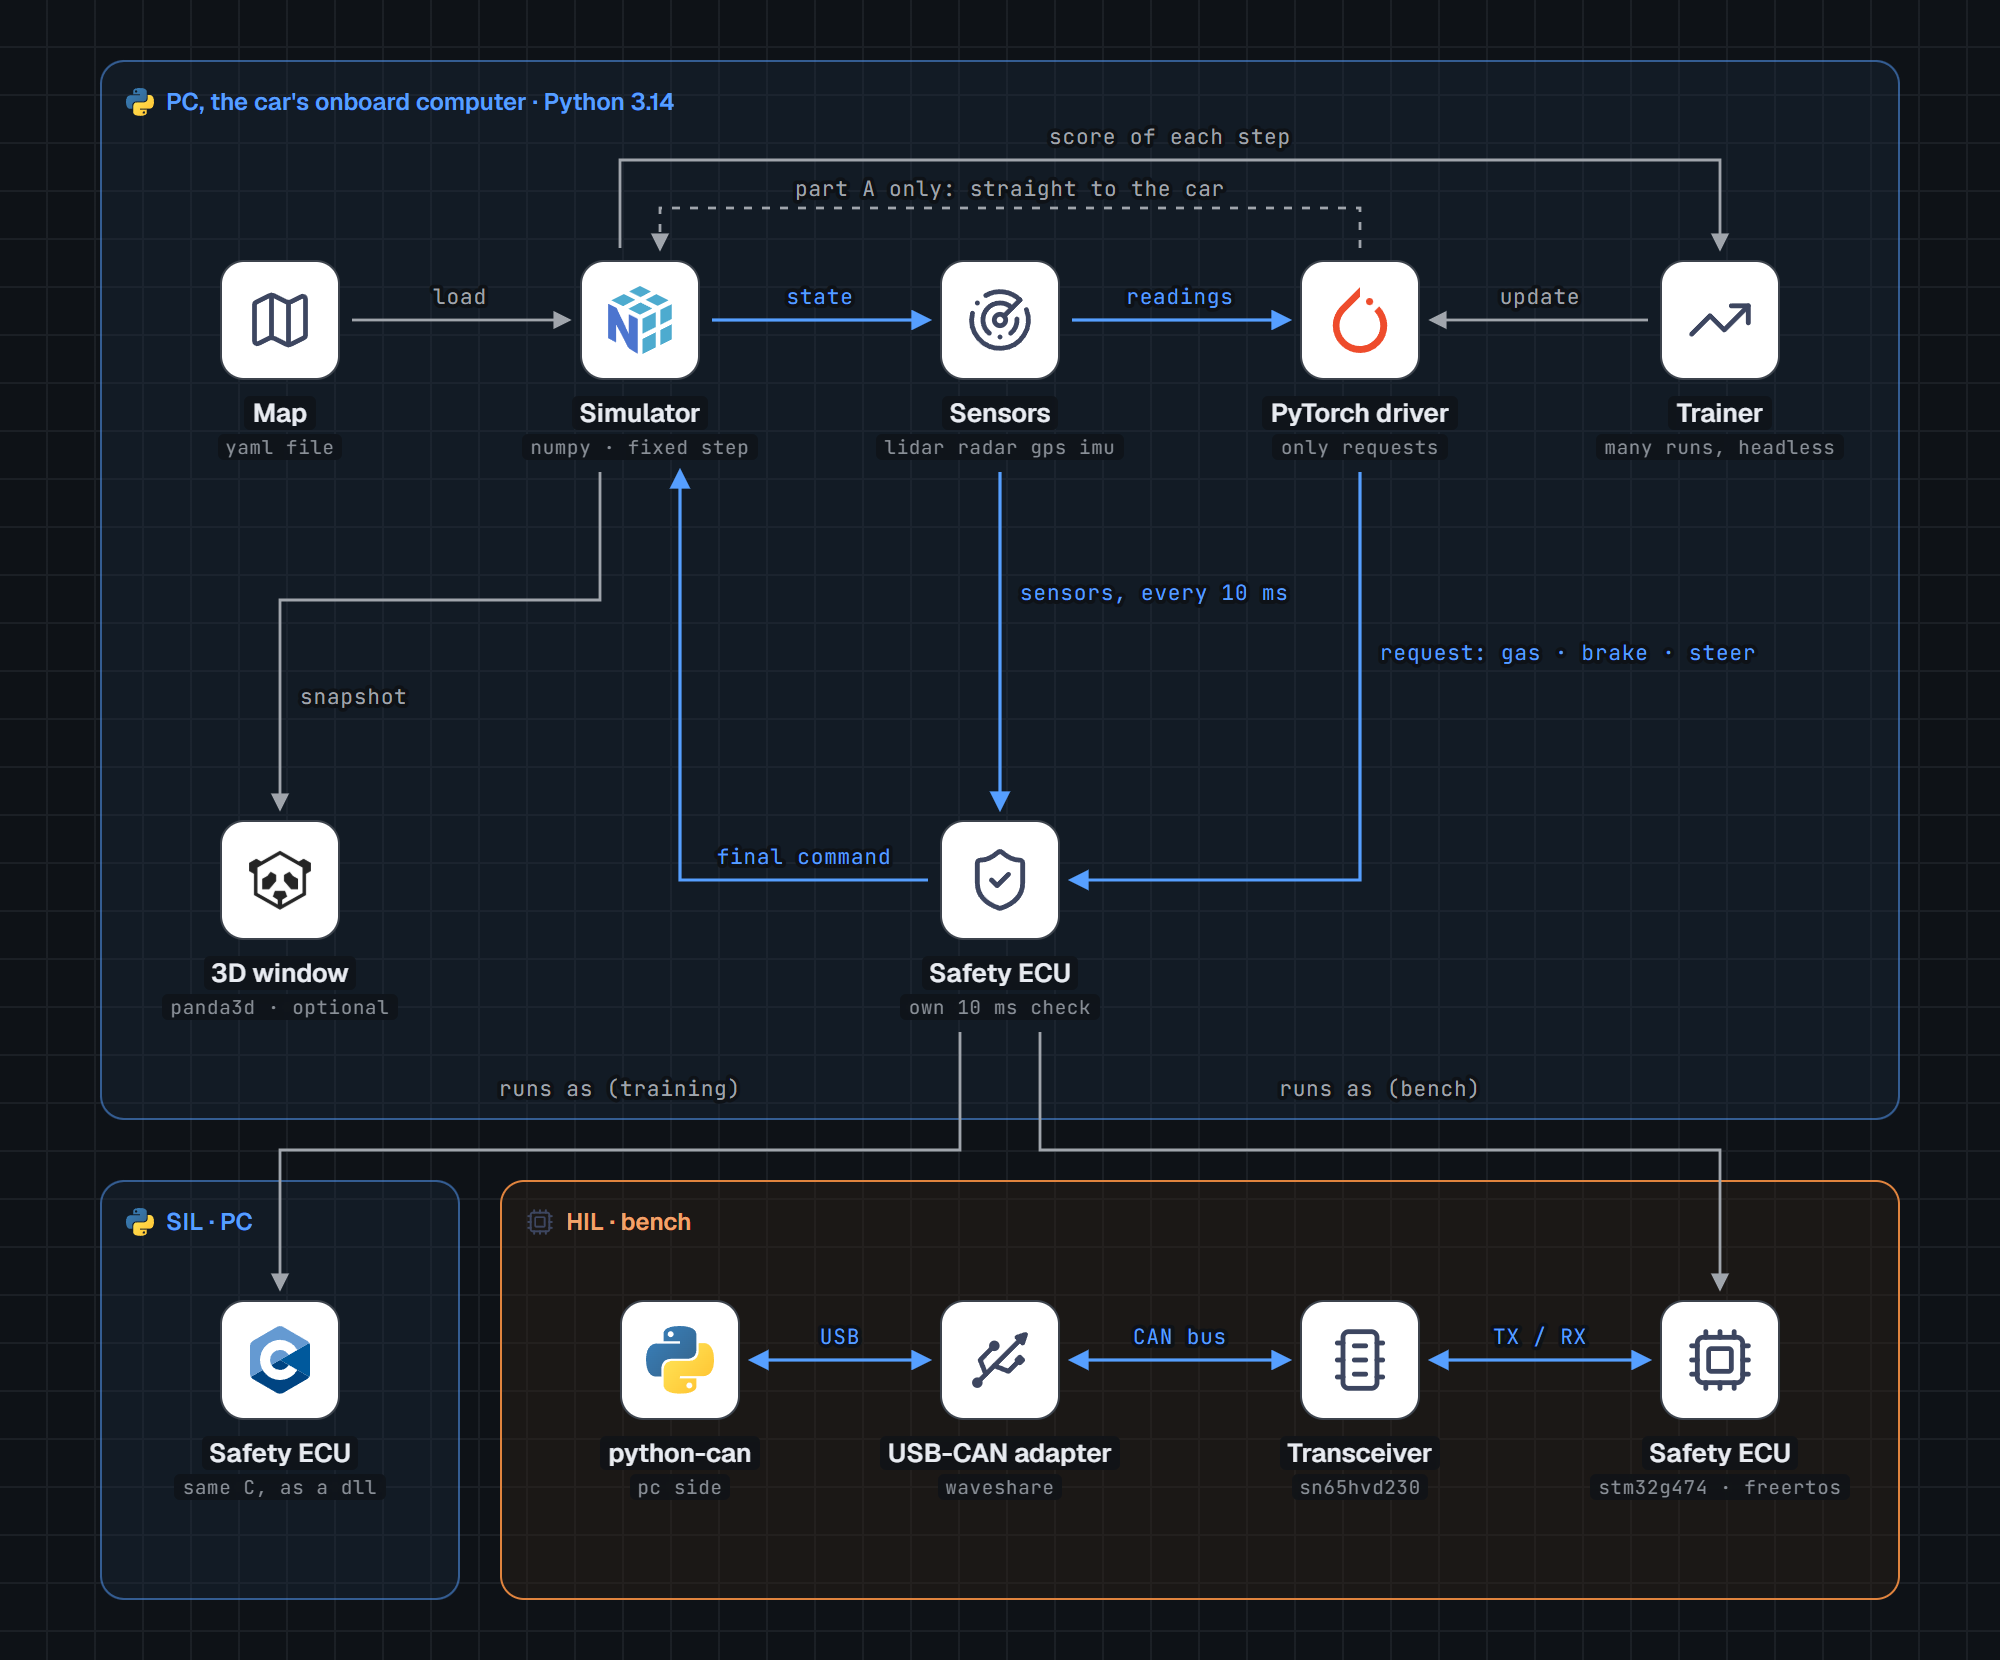
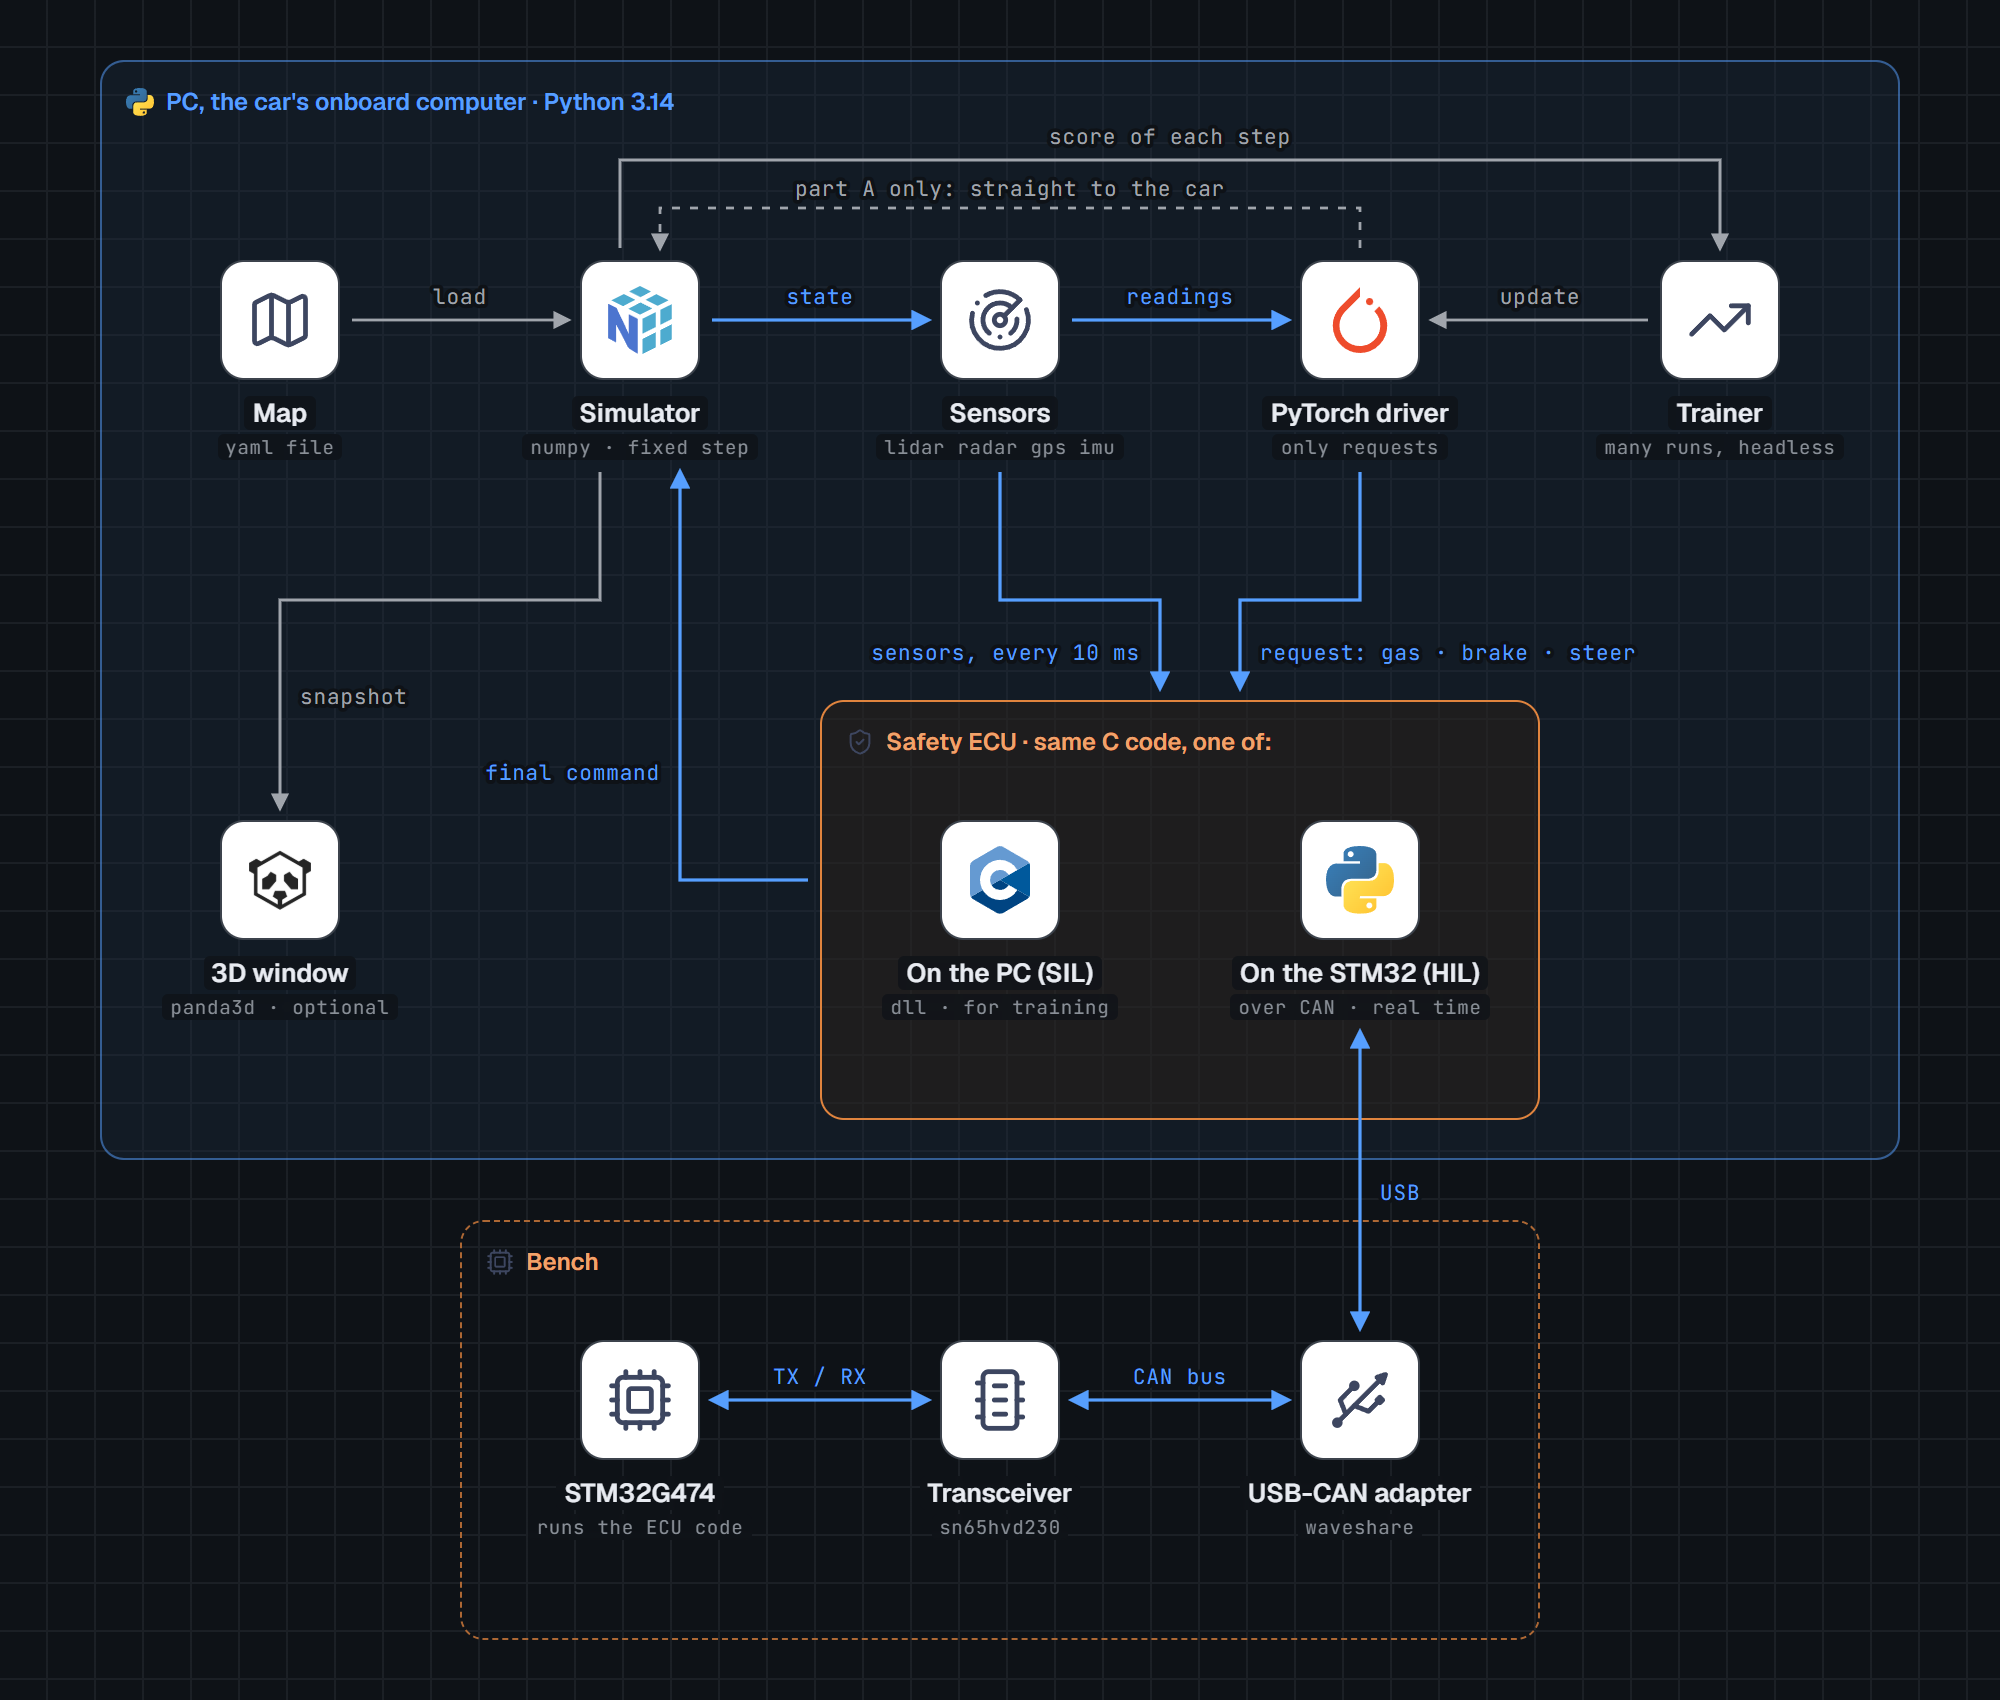
docs: draw the safety ecu as one box with its sil and hil forms

diff --git a/README.md b/README.md
@@ -19,10 +19,10 @@ It is built in two parts.
 
 <picture>
   <source media="(prefers-color-scheme: dark)" srcset="docs/architecture-dark.png">
-  <img alt="Architecture: the simulator feeds the sensors, the sensors feed the PyTorch driver, the driver sends a request (gas, brake, steering) to the Safety ECU, which also reads the sensors itself every 10 ms, and the Safety ECU sends the final command back to the simulator. A trainer improves the driver from each step's score. The Safety ECU runs either as a DLL on the PC (SIL) or on the STM32, reached over USB, a CAN adapter, the CAN bus and a transceiver (HIL)." src="docs/architecture.png">
+  <img alt="Architecture: the simulator feeds the sensors, the sensors feed the PyTorch driver. The driver's request (gas, brake, steering) and the sensor readings both go into the Safety ECU every 10 ms, and the Safety ECU sends the final command back to the simulator. A trainer improves the driver from each step's score. The Safety ECU is the same C code, run either as a DLL on the PC (SIL) or on the STM32 over USB, a CAN adapter, the CAN bus and a transceiver (HIL)." src="docs/architecture.png">
 </picture>
 
-Blue: the driving loop. The driver only requests. The Safety ECU does not just wait for requests: every 10 ms it reads the sensors itself, so it can brake for something close even before the next request arrives. It checks each request (intact, new, on time, sensible), then passes it, limits it, or brakes on its own, and the car obeys only its final command. Dashed: in part 1 there is no ECU yet, so the request goes straight to the car. The Safety ECU is the same C code in both places: a DLL on the PC for fast training (SIL), or the real STM32 on the CAN bus (HIL).
+Blue: the driving loop. The driver only requests. The Safety ECU does not just wait for requests: every 10 ms it reads the sensors itself, so it can brake for something close even before the next request arrives. It checks each request (intact, new, on time, sensible), then passes it, limits it, or brakes on its own, and the car obeys only its final command. Dashed: in part 1 there is no ECU yet, so the request goes straight to the car. The orange box is the Safety ECU, and only one of its two forms runs at a time: the C code as a DLL on the PC for fast training (SIL), or the same code on the real STM32, reached over USB and the CAN bus, in real time (HIL).
 
 The driver on the PC only asks. The STM32 always decides what the car actually does, and every time it steps in, the run scores lower.
 
